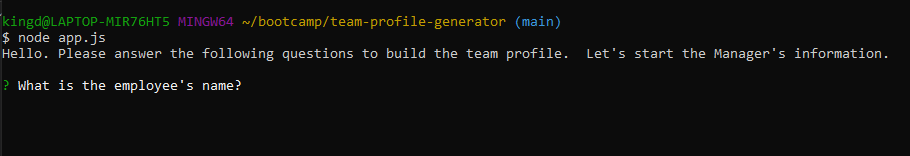
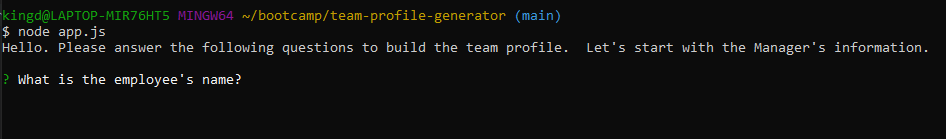
fixed typo in CLI questions.  updated screenshot in assets folder

Changed region(s): [[0.0, 0.0576, 0.9846, 0.4029], [0.0, 0.518, 0.2769, 0.6043]]

diff --git a/collectEmployeeInfo.js b/collectEmployeeInfo.js
@@ -94,7 +94,7 @@ var nonManagerQuestions = [roleQuestion, ...commonQuestions, githubQuestion, sch
 
 function askForManagerInfo(onDone) {
 	
-	console.log("Hello. Please answer the following questions to build the team profile.  Let's start the Manager's information.\n");
+	console.log("Hello. Please answer the following questions to build the team profile.  Let's start with the Manager's information.\n");
 	var employees = [];
 
 	inquirer.prompt(managerQuestions).then((answers) => {
